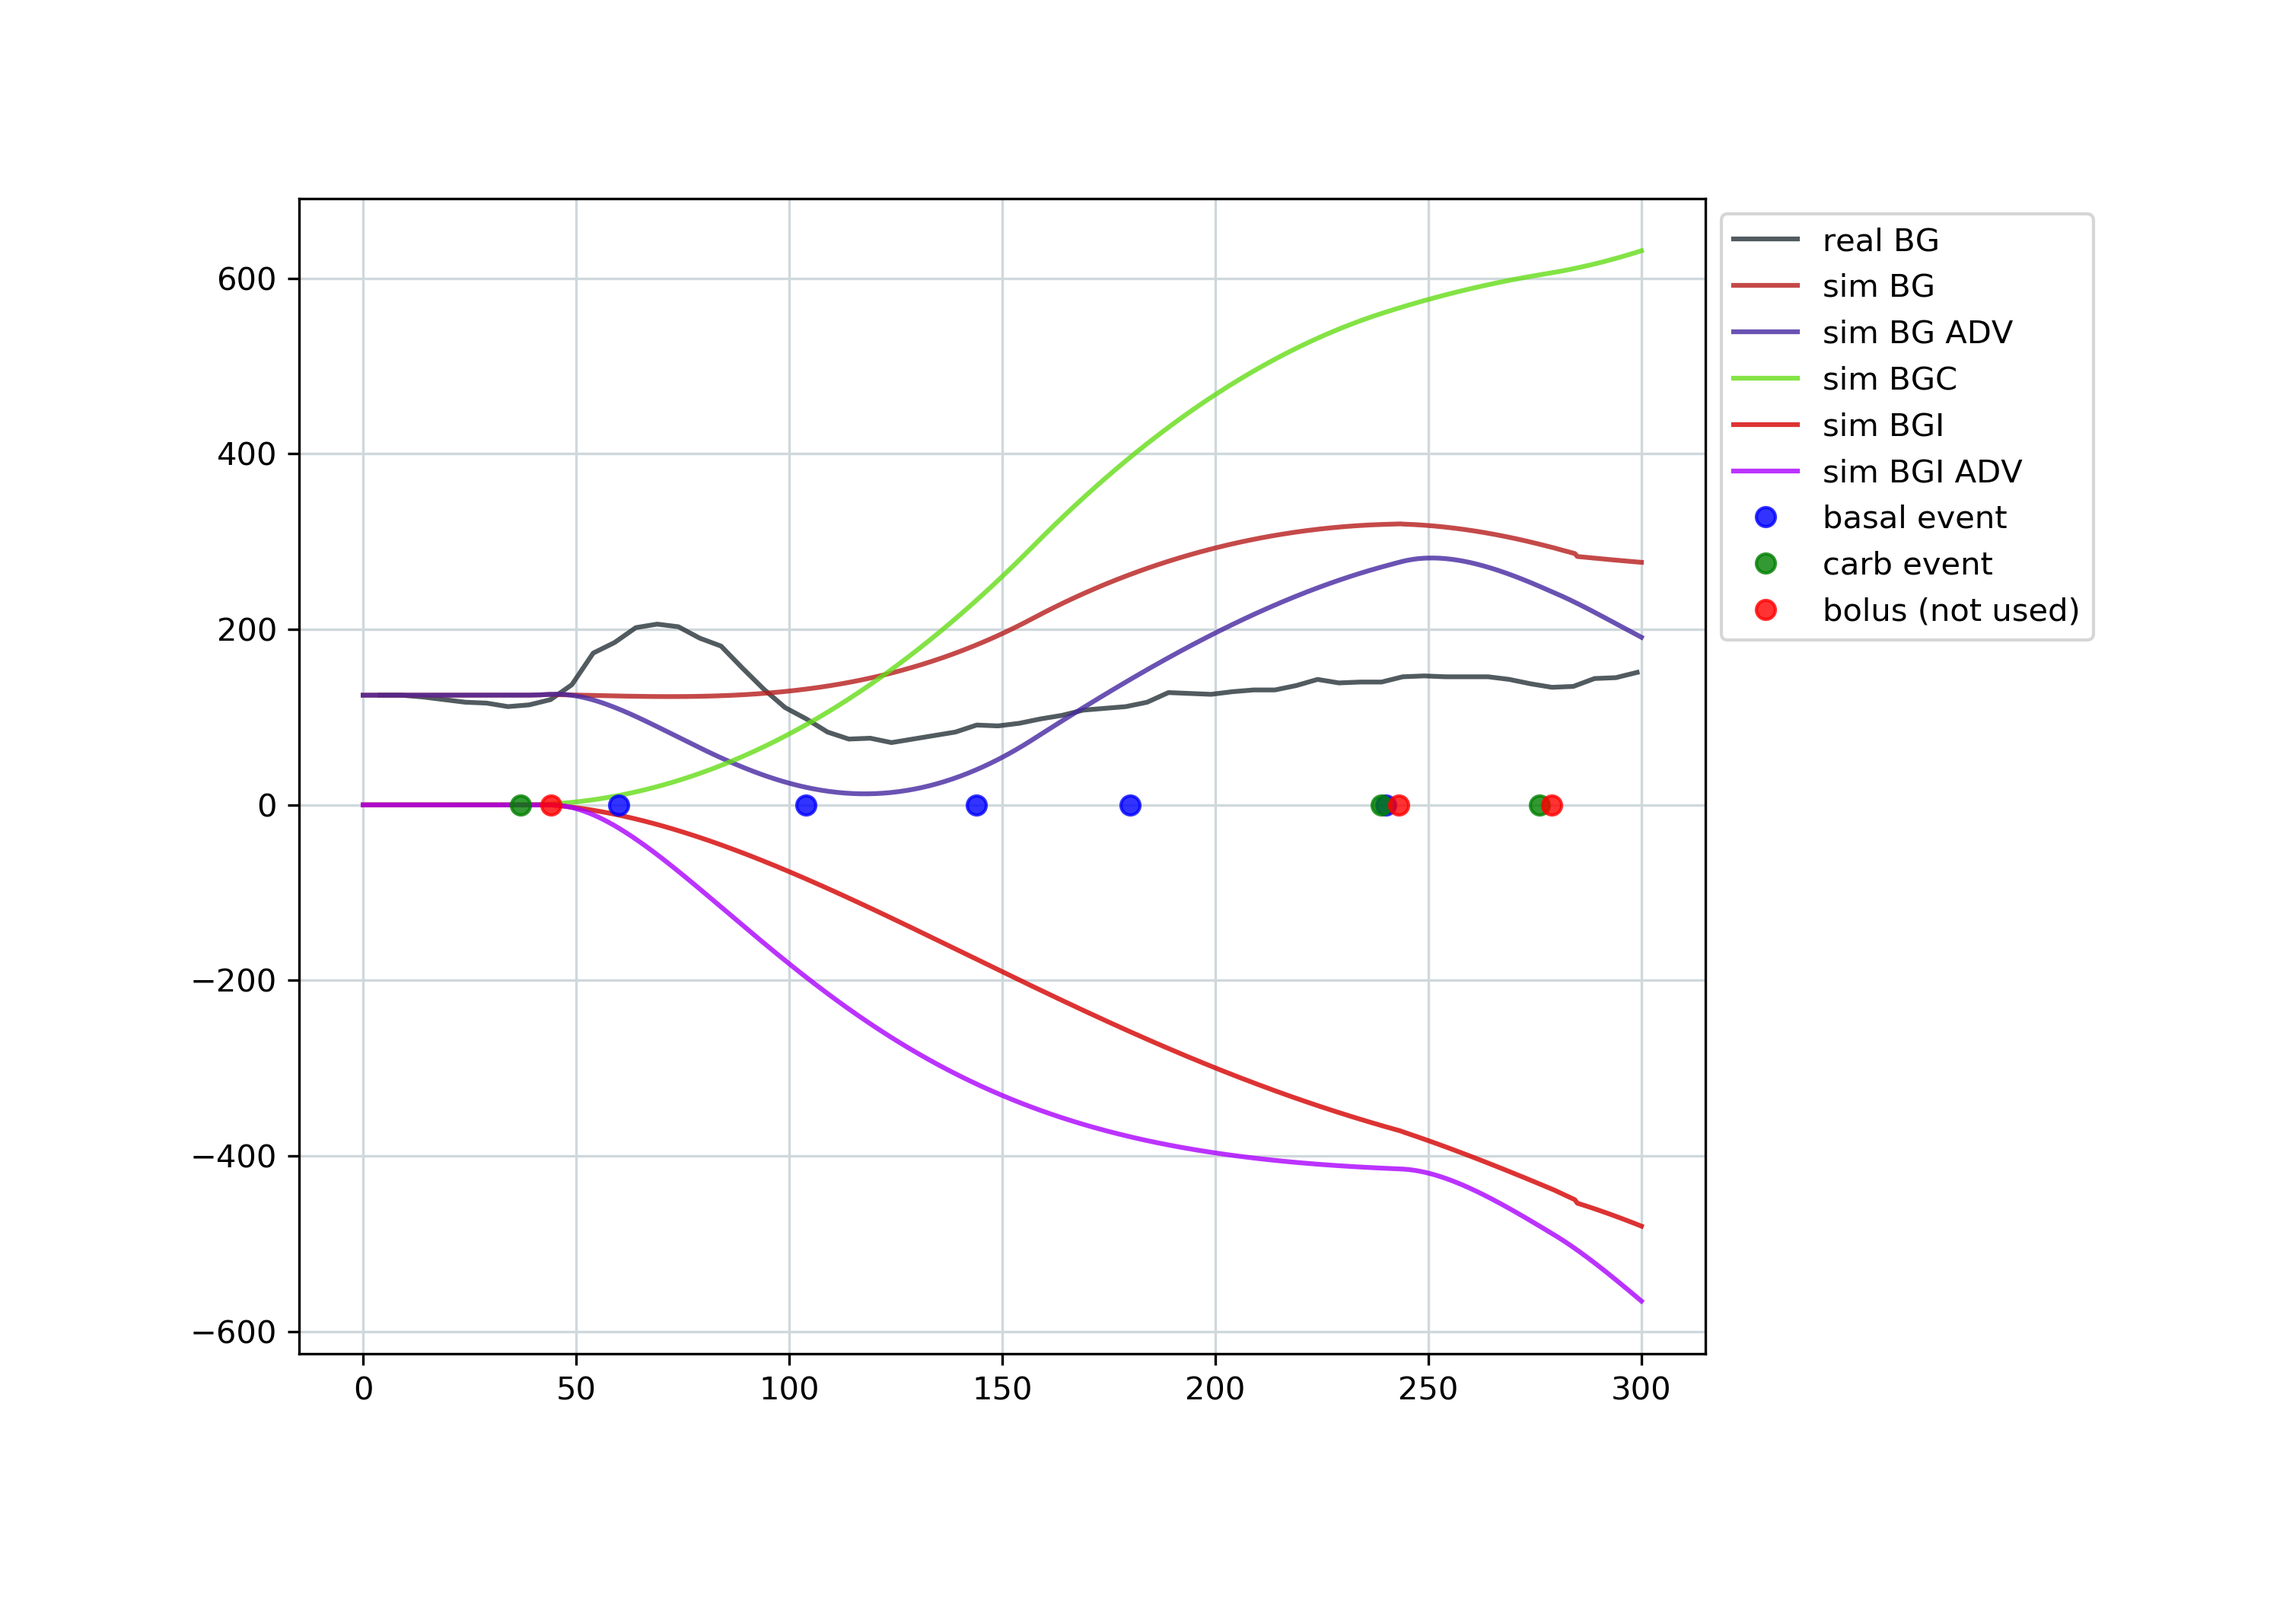
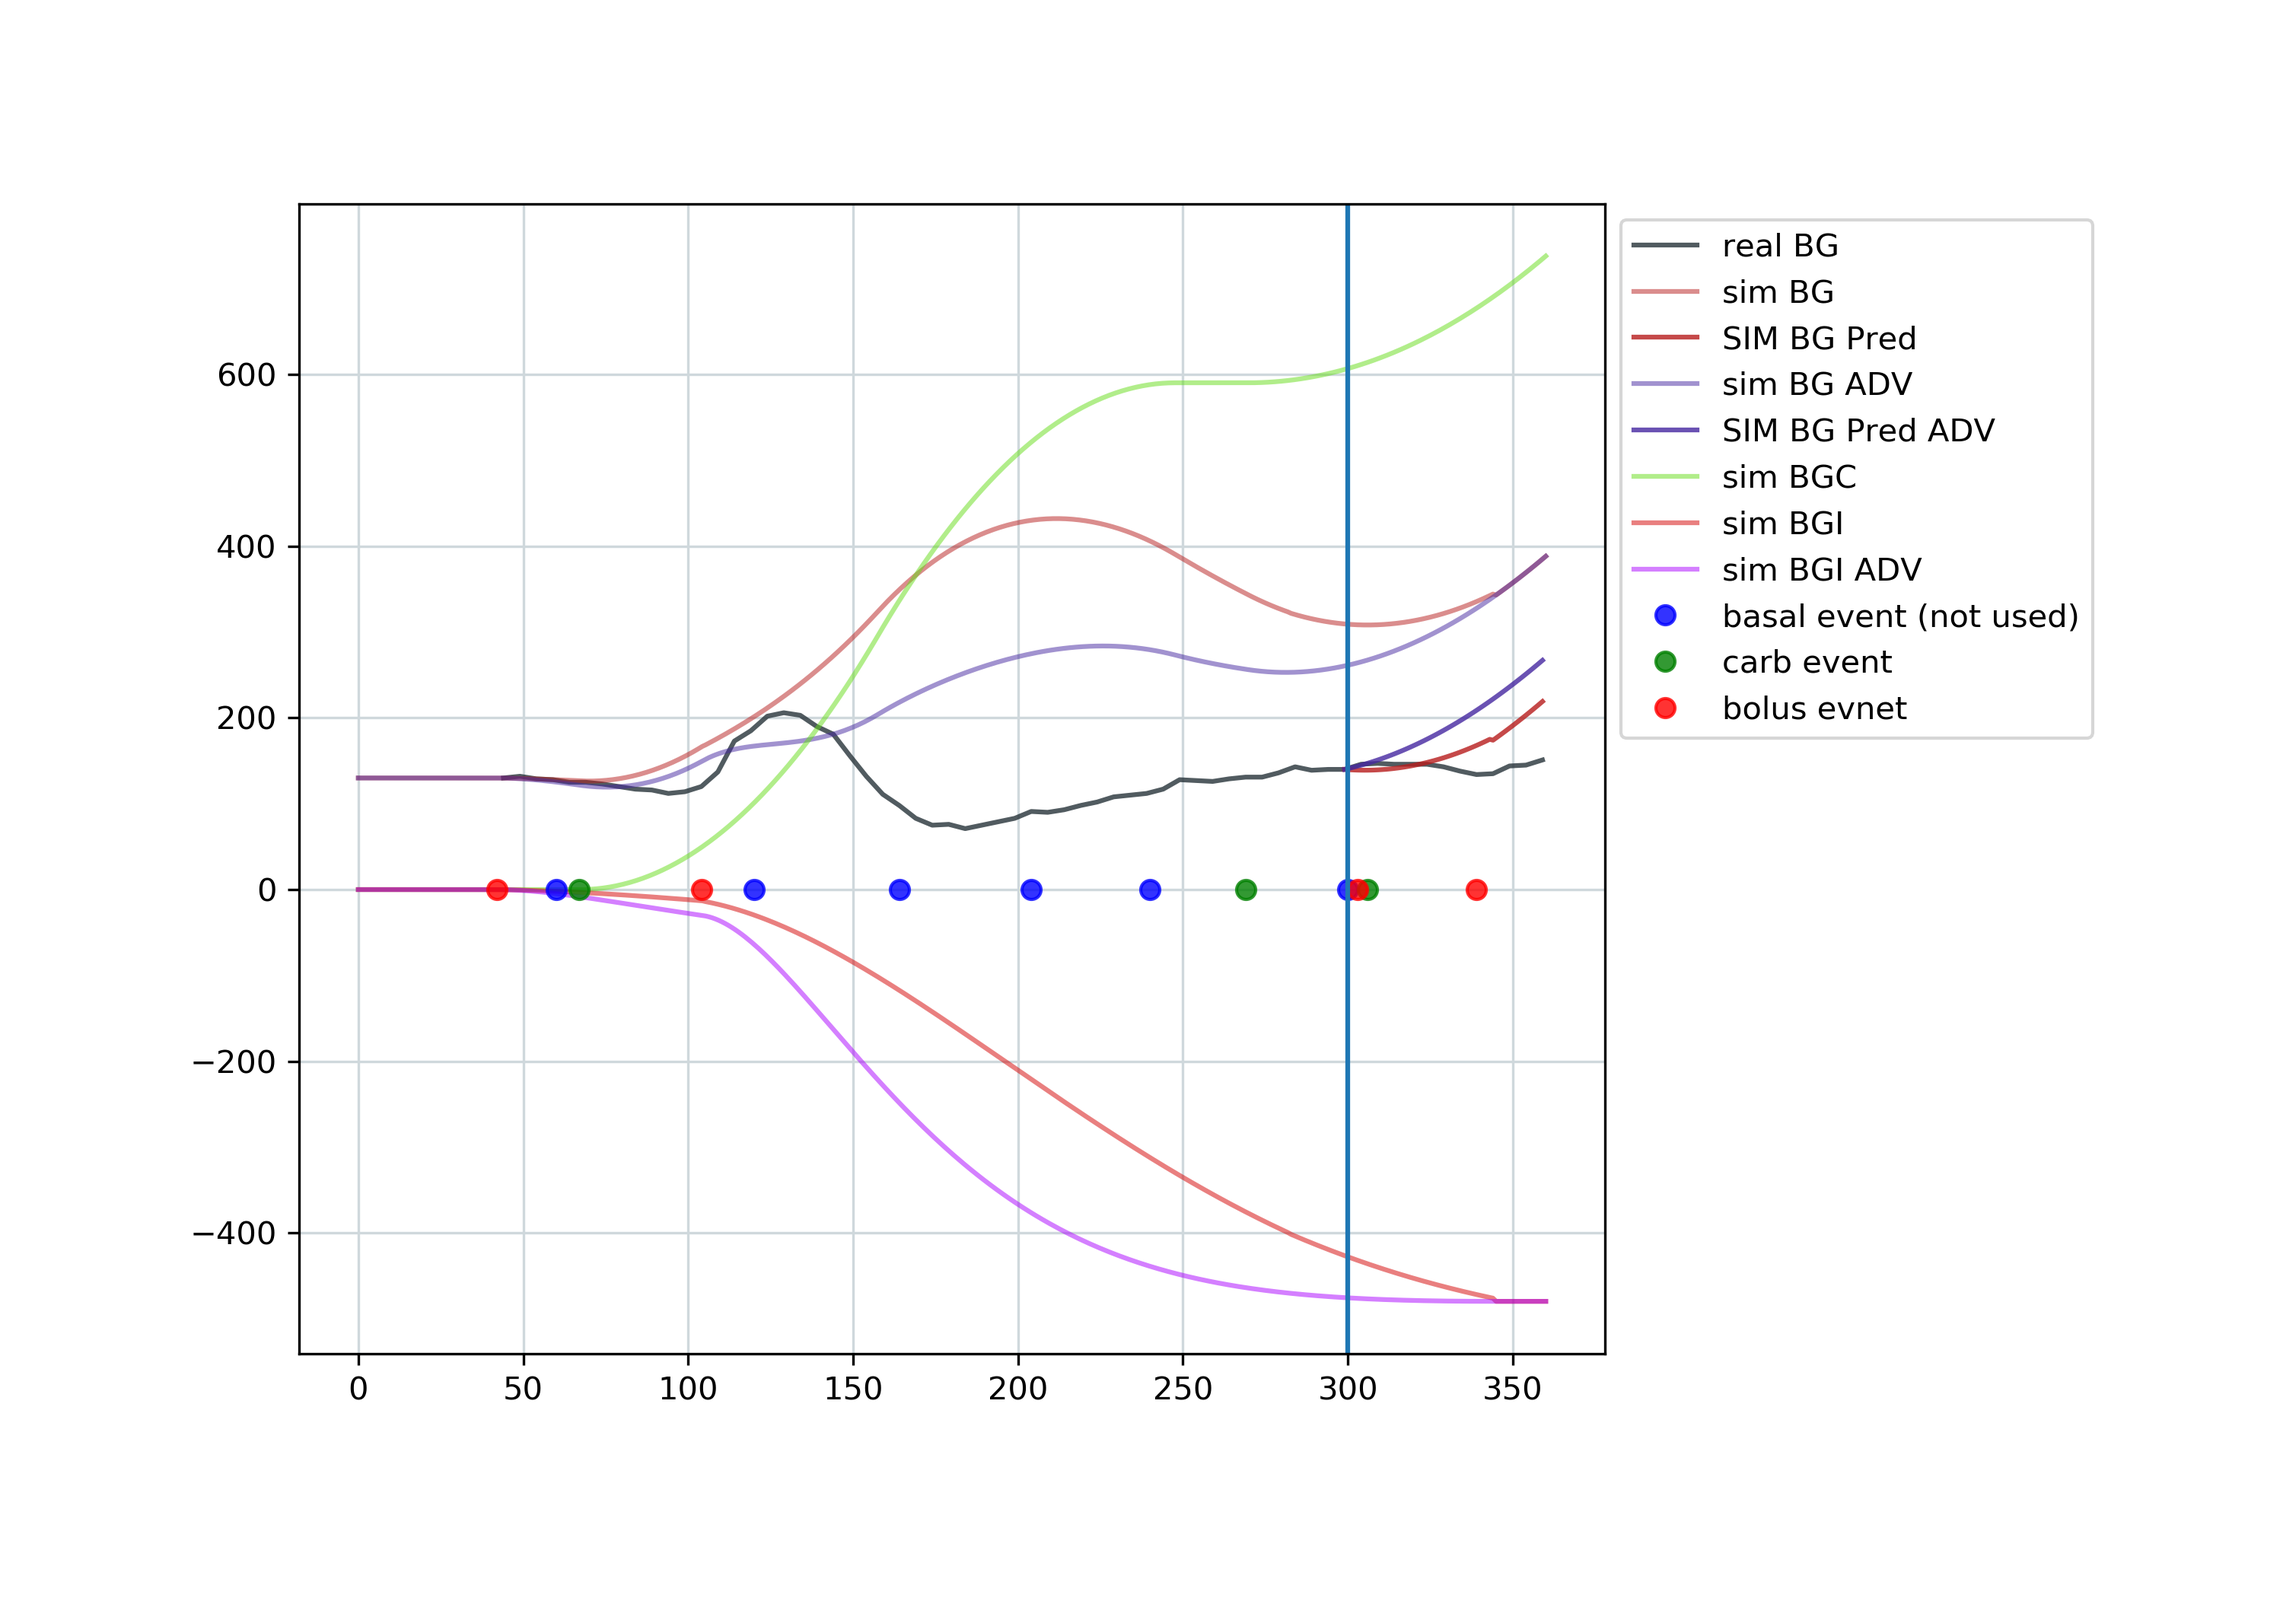
added visual changes to plot

diff --git a/Python/check.py b/Python/check.py
@@ -1,3 +1,6 @@
+import logging
+import math
+
 import pandas
 
 import extractor
@@ -10,7 +13,10 @@ from matplotlib import pyplot as plt
 timeFormat = "%d.%m.%y,%H:%M%z"
 timeZone = "+0100"
 
-def checkWindow(data, udata, startTime):
+logging.basicConfig(level=logging.INFO)
+logger = logging.getLogger(__name__)
+
+def checkWindow(data, udata, startTime, steps):
     events = extractor.getEvents(data)
     converted = events.apply(lambda event: convertTimes(event, startTime))
     df = pandas.DataFrame([vars(e) for e in converted])
@@ -25,21 +31,23 @@ def checkWindow(data, udata, startTime):
     simbg_adv = bg[5]
 
     ## get last cgm value
-    lastValue = cgmData['cgmValue'].values[len(cgmData) -1]
+    lastValue = cgmData['cgmValue'].values[len(cgmData) - 1]
     lastTime = int(cgmData['delta'].values[len(cgmData) - 1])
-
+    logger.debug("last time: " + str(lastTime) + "\tlast value: " + str(lastValue))
     ## get second last
-    secondlastValue = cgmData['cgmValue'].values[len(cgmData) - 10]
-    secondlastTime = int(cgmData['delta'].values[len(cgmData) - 10])
-
+    secondlastValue = cgmData['cgmValue'].values[len(cgmData) - steps]
+    secondlastTime = int(cgmData['delta'].values[len(cgmData) - steps])
+    logger.debug("secondlast time: " + str(secondlastTime) + "\tsecondlast value: " + str(secondlastValue))
     delta = simbg[secondlastTime] - simbg[lastTime]
     delta_adv = simbg_adv[secondlastTime] - simbg_adv[lastTime]
-
+    logger.debug("delta: " + str(delta) + "\tdelta adv: " + str(delta_adv))
     prediction = lastValue + delta
     prediction_adv = lastValue + delta_adv
-
+    logger.debug("prediction: " + str(prediction) + "\tprediction adv: " + str(prediction_adv))
     error = lastValue - prediction
     error_adv = lastValue - prediction_adv
+    logger.debug("error: " + str(error) + "\terror adv: " + str(error_adv))
+
 
 
     return [error, error_adv]
@@ -64,6 +72,22 @@ def getTimeDelta(row, start):
         return timeDifference.seconds / 60
 
 
+def getClosestIndex(cgmX, number):
+    res = 0
+    while cgmX[res] <= number:
+        res += 1
+    return res - 1
+
+
+def getPredictionVals(cgmX, cgmY, index,  simData):
+    zero = simData[int(cgmX[index])]
+    start = cgmY[index]
+    res = []
+    for i in range(int(cgmX[index]), len(simData)):
+        res.append(start + simData[i] - zero)
+    return res
+
+
 def checkCurrent(data, udata, startTime):
 
     events = extractor.getEvents(data)
@@ -72,6 +96,7 @@ def checkCurrent(data, udata, startTime):
     df = pandas.DataFrame([vars(e) for e in converted])
     df = df[df.time > 0]
     df = df[df.time < udata.simlength * 60]
+    df_train = df[df.time < (udata.simlength - 1) * 60]
 
     cgmtrue = data[data['cgmValue'].notnull()]
     cgmtrue['delta'] = cgmtrue.apply(lambda row: getTimeDelta(row, startTime), axis=1)
@@ -84,7 +109,7 @@ def checkCurrent(data, udata, startTime):
 
     udata.bginitial = initialBG
 
-    data = calculateBG(df, udata, 500)
+    data = calculateBG(df_train, udata, udata.simlength * 60)
 
     basalValues = df[df.etype == 'tempbasal']
     carbValues = df[df.etype == 'carb']
@@ -92,26 +117,40 @@ def checkCurrent(data, udata, startTime):
 
 
     for i in range(0,len(data[0])):
-        print(str(data[3][i]) + '\t' * 5 + str(data[0][i]) + '\t' * 5 + str(data[1][i]) + '\t' * 5 + str(data[2][i]) )
+        print(str(data[3][i]) + '\t' * 5 + str(data[0][i]) + '\t' * 5 + str(data[1][i]) + '\t' * 5 + str(data[2][i]))
 
     dataasdf = pandas.DataFrame([data[1], data[0], data[1], data[2]])
+
+    index = getClosestIndex(cgmX, (udata.simlength -1) * 60)
+
+    prediction_vals = getPredictionVals(cgmX, cgmY, index,  data[0])
+    prediction_vals_adv = getPredictionVals(cgmX, cgmY, index,  data[5])
 
     plt.figure(figsize=(10, 7))
     plt.grid(color="#cfd8dc")
     plt.plot(cgmX, cgmY, "#263238", alpha=0.8, label="real BG")
 
-    plt.plot(data[3], data[0], "#b71c1c", alpha=0.8, label="sim BG")
-    plt.plot(data[3], data[5], "#4527a0", alpha=0.8, label="sim BG ADV")
+    plt.plot(data[3], data[0], "#b71c1c", alpha=0.5, label="sim BG")
+    plt.plot(range(int(cgmX[index]), len(data[3])), prediction_vals, "#b71c1c", alpha=0.8, label="SIM BG Pred")
+    plt.plot(data[3], data[5], "#4527a0", alpha=0.5, label="sim BG ADV")
+    plt.plot(range(int(cgmX[index]), len(data[3])), prediction_vals_adv, "#4527a0", alpha=0.8, label="SIM BG Pred ADV")
 
-    plt.plot(data[3], data[1], "#64dd17", alpha=0.8, label="sim BGC")
-    plt.plot(data[3], data[2], "#d50000", alpha=0.8, label="sim BGI")
-    plt.plot(data[3], data[4], "#aa00ff", alpha=0.8, label="sim BGI ADV")
+    plt.plot(data[3], data[1], "#64dd17", alpha=0.5, label="sim BGC")
+    plt.plot(data[3], data[2], "#d50000", alpha=0.5, label="sim BGI")
+    plt.plot(data[3], data[4], "#aa00ff", alpha=0.5, label="sim BGI ADV")
 
-    plt.plot(basalValues.time, [0] * len(basalValues), "bo", alpha=0.8, label="basal event")
-    plt.plot(carbValues.time, [0] * len(carbValues),"go", alpha=0.8, label="carb event")
-    plt.plot(bolusValues.time, [0] * len(bolusValues),"ro", alpha=0.8, label="bolus (not used)")
-    plt.legend(loc=2, bbox_to_anchor=(1,1))
+
+
+
+    plt.plot(basalValues.time, [0] * len(basalValues), "bo", alpha=0.8, label="basal event (not used)")
+    plt.plot(carbValues.time, [0] * len(carbValues), "go", alpha=0.8, label="carb event")
+    plt.plot(bolusValues.time, [0] * len(bolusValues), "ro", alpha=0.8, label="bolus evnet")
+
+
+
+    plt.legend(loc=2, bbox_to_anchor=(1, 1))
     plt.tight_layout(pad=6)
+    plt.axvline(x=(udata.simlength - 1) * 60)
     plt.savefig("result.png", dpi=300)
 
 
@@ -128,6 +167,9 @@ def convertTimes(event, start):
         event.time = - timeDifference.seconds / 60
     else:
         event.time = timeDifference.seconds / 60
+
+    if event.etype == "carb":
+        event.time = event.time - 30
     if event.etype == "tempbasal":
         t1 = datetime.strptime(event.t1 + timeZone, timeFormat)
         event.t1 = event.time

diff --git a/Python/main.py b/Python/main.py
@@ -1,5 +1,6 @@
 import pandas
 
+from analyze import analyze
 from autotune_prep import writeJson
 from check import checkCurrent
 from Classes import Event, UserData
@@ -26,21 +27,23 @@ def plt(udata):
 
 def mainPredict(data, userdata):
     data = data[data['date'] == "15.12.17"]
-    start = "15.12.17,11:00"
+    start = "15.12.17,10:00"
     res = checkCurrent(data, userdata, start)
 
 
 def predictFast(data, userdata):
-    res = rolling.predictRollingCached(data, userdata)
-
+    steps = 5
+    res = rolling.predictRollingCached(data, userdata, steps)
     res_series = pandas.Series(res[0])
     res_adv_series = pandas.Series(res[1])
     mean = res_series.mean(skipna=True)
     median = res_series.median(skipna=True)
     mean_adv = res_adv_series.mean(skipna=True)
     median_adv = res_adv_series.median(skipna=True)
-    jsonobject = {"mean": float(mean), "mean_adv": float(mean_adv),"median": float(median),  "median_adv": int(median_adv), "data": res}
-    file = open('./result-10.json', 'w')
+    jsonobject = {"mean": float(mean), "mean_adv": float(mean_adv), "median": float(median),  "median_adv": int(median_adv), "data": res}
+    filename = "result-" + str(steps) + ".json"
+    analyze(jsonobject, filename)
+    file = open(filename, 'w')
     file.write(json.dumps(jsonobject))
     logger.info("finished")
 
@@ -59,11 +62,23 @@ def main():
     #data = read_data(filenameDocker)
     data = read_data(filename1217)
     logger.debug("Loaded Data with shape: " + str(data.shape))
-    udata = UserData(bginitial=100.0, cratio=5, idur=4, inputeeffect=None, sensf=41, simlength=5, stats=None)
+    udata = UserData(bginitial=100.0, cratio=5, idur=4, inputeeffect=None, sensf=41, simlength=6, stats=None)
     logger.debug("set user data")
-
-    predictFast(data, udata)
+    mainPredict(data, udata)
+   # predictFast(data, udata)
     logger.info("finished")
 
 if __name__ == '__main__':
     main()
+
+
+# prediction mit gleichem wert
+# prediction mit steigung von  letzten 3 werten
+# verticale linie in result.png und prediction plotten
+# prediction time 60 min
+# 6h
+# basal raten -> bolus
+# autotune fuer jeden tag
+# verschiedene zeitfenster fuer autotune
+# carb platzierung
+# carbs alle 10 minuten, unit optimieren bis die kurve passt

diff --git a/Python/rolling.py b/Python/rolling.py
@@ -33,7 +33,7 @@ def predictRolling(inputData, userData):
     rolling.apply(lambda window: predictWindow(window))
 
 
-def rolling(data, delta, steps, udata):
+def rolling(data, delta, steps, udata, stepsback):
     startTime = data.index[0]
     startTime = startTime.replace(minute= startTime.minute // int((steps.seconds / 60)))
     endTime = data.index[len(data)-1]
@@ -42,11 +42,11 @@ def rolling(data, delta, steps, udata):
         subset = data.loc[startTime <= data.index]
         subset = subset.loc[startTime + delta > subset.index]
 
-        results.append(checkWindow(subset, udata, startTime))
+        results.append(checkWindow(subset, udata, startTime, stepsback))
 
         startTime += steps
     return results
-def predictRollingCached(inputData, userData):
+def predictRollingCached(inputData, userData, steps):
         # user rolling window to get 5 hours of data
         logger.debug("convert data to dataFrame")
         data = pandas.DataFrame(inputData)
@@ -57,6 +57,6 @@ def predictRollingCached(inputData, userData):
         logger.debug(data)
         # make sample size smaller
         # user rolling window
-        return rolling(data, timedelta(hours=5), timedelta(minutes=15), userData)
+        return rolling(data, timedelta(hours=5), timedelta(minutes=15), userData, steps)
 
 

diff --git a/Python/analyze.py b/Python/analyze.py
@@ -1,0 +1,37 @@
+import json
+import pandas
+import matplotlib.pyplot as plt
+
+
+def analyzeFile(filename):
+
+    file = open(filename)
+    res = json.load(file)
+    analyze(res, filename)
+def analyze(json, filename):
+    data = json['data']
+    count = 0
+    for x in data:
+        if(x[0] == 0 or x [1] == 0):
+            count += 1
+
+    data = pandas.DataFrame(data)
+    print("number of results: " + str(len(data)))
+    print("number of zeros: " + str(count))
+
+    plt.plot(data[0], label="Standard", alpha=0.6)
+    plt.plot(data[1], label="Adv", alpha=0.6)
+    plt.grid(color="#cfd8dc")
+    plt.legend()
+    plt.title("error plot data: " + filename)
+    plt.savefig("errorPlot.png", dpi=600)
+
+    plt.figure()
+    plt.boxplot([data[0], data[1]], labels=["standard", "adv"])
+    plt.grid(color="#cfd8dc")
+    plt.title("Boxplot Comparison data: " + filename)
+    plt.savefig("boxplot.png", dpi=600)
+
+
+if __name__ == '__main__':
+    analyzeFile("result.json")

diff --git a/Python/extractor.py b/Python/extractor.py
@@ -26,7 +26,7 @@ def getEvents(data):
         mealEvents = []
     else:
         mealEvents = meal.apply(
-            lambda event: Event.createCarb(time=event['date']+','+event['time'], grams=event['mealValue'], ctype=4*60), axis=1) # TODO Carbtype
+            lambda event: Event.createCarb(time=event['date']+','+event['time'], grams=event['mealValue'], ctype=3*60), axis=1) # TODO Carbtype
 
     #mealEvents.apply(lambda event: event.toString(), 1)
 
